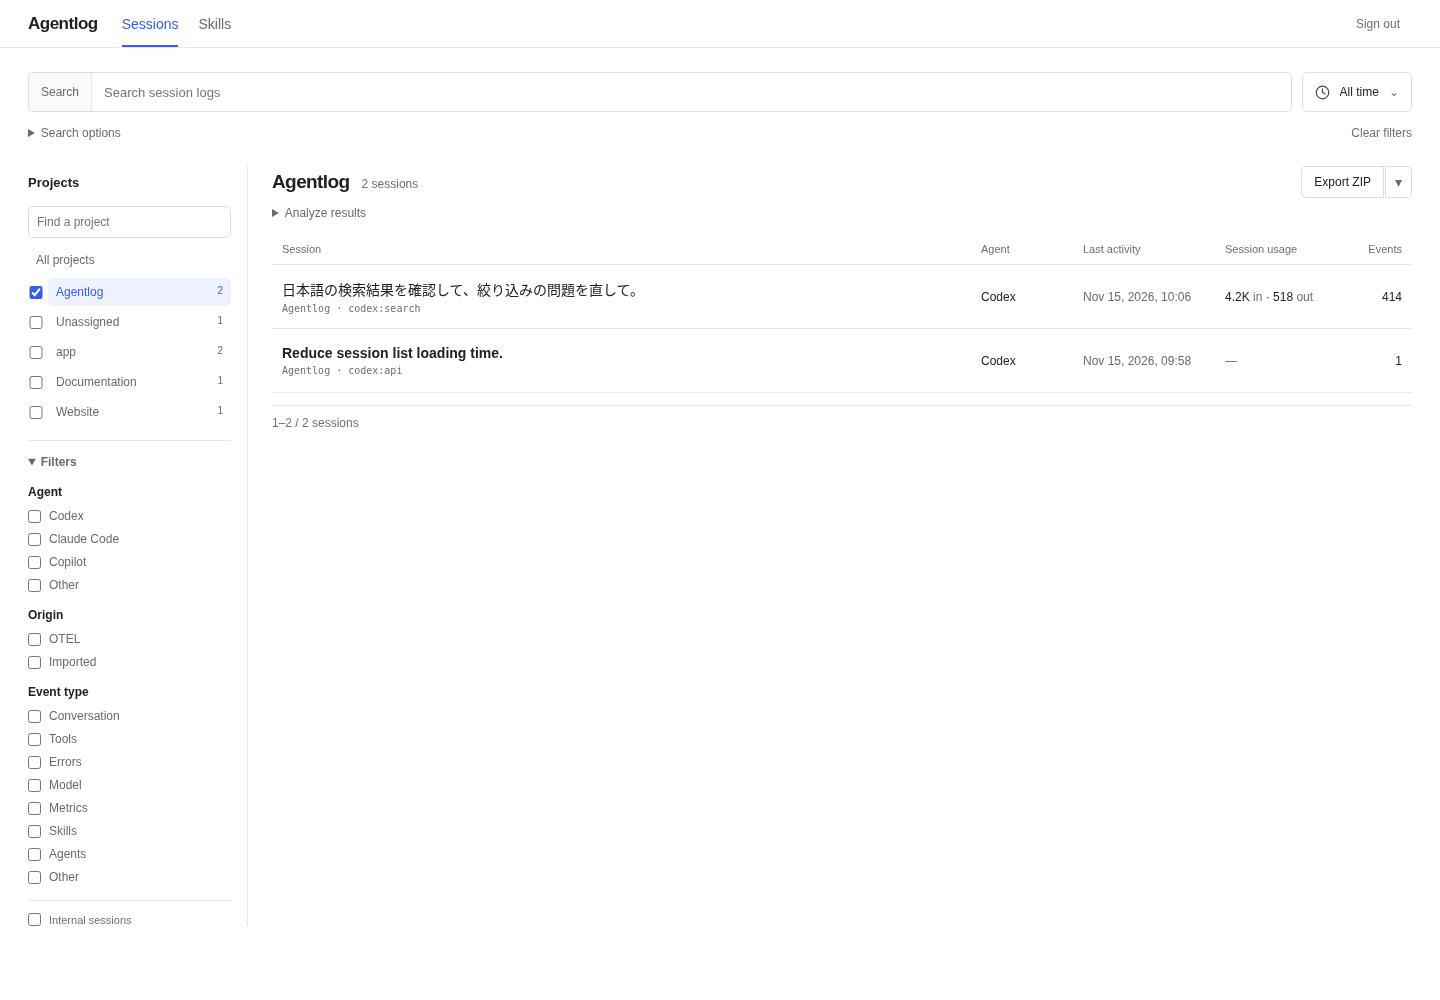
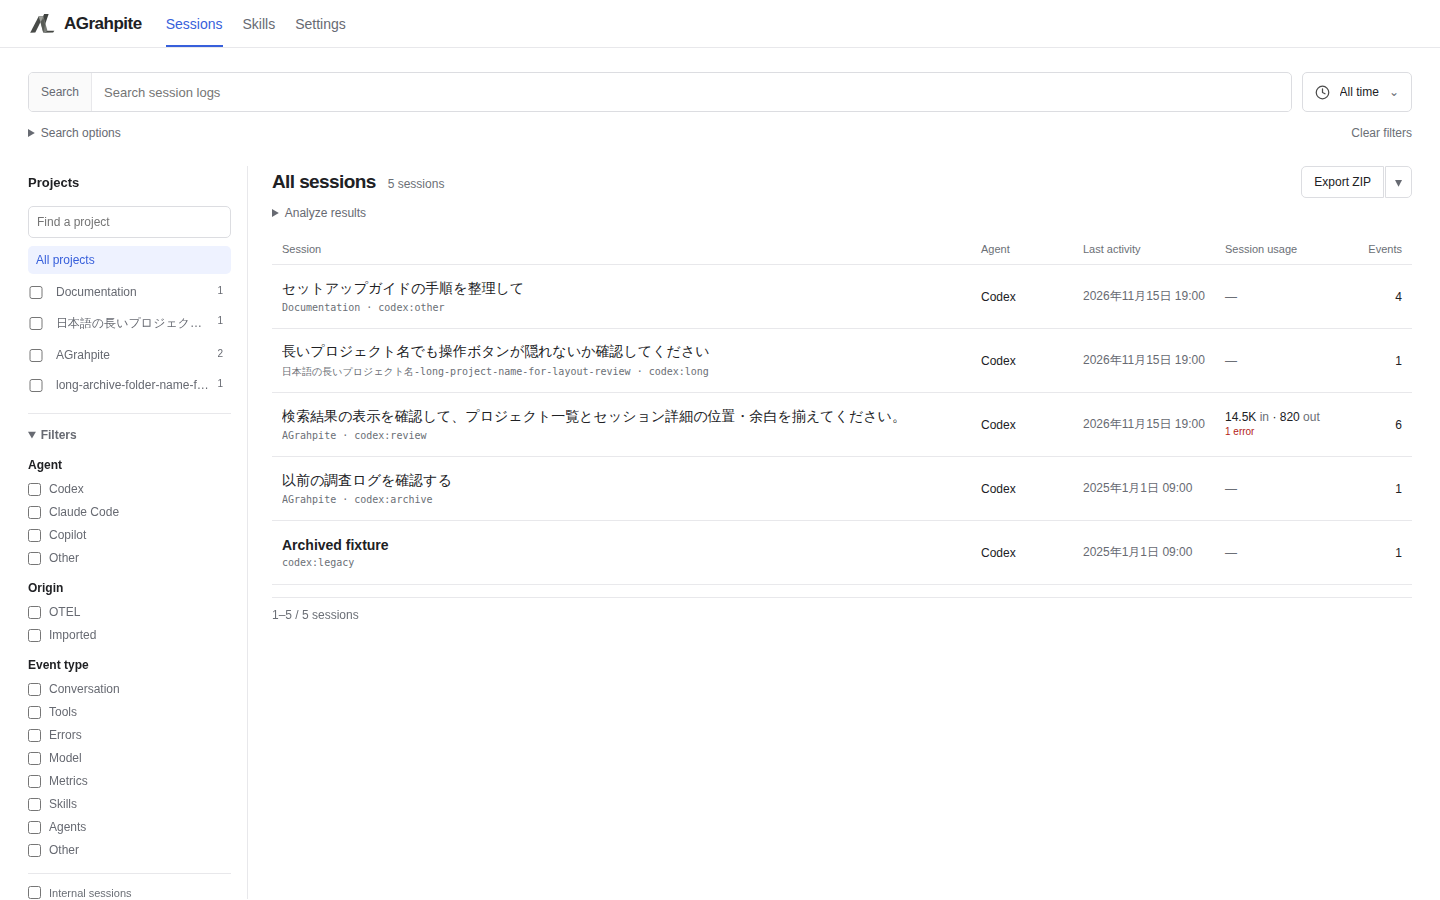
製品名を AGrahpite に変更し、黒鉛をモチーフにしたロゴを採用 (#54)
画面・ファビコン・文書・起動ログと今後のリリース表示にブランドを反映する。狭い画面ではヘッダーを二段にする。

既存コマンド、環境変数、保存先、認証とデータ形式の識別子は維持する。全 Go テスト、静的検証、6幅の画面確認、ログイン・設定・API 操作を検証済み。

diff --git a/internal/app/static/index.html b/internal/app/static/index.html
@@ -1,6 +1,6 @@
-<!doctype html><html lang="en"><head><meta charset="utf-8"><meta name="viewport" content="width=device-width,initial-scale=1"><title>Sessions · Agentlog</title><link rel="stylesheet" href="/palette.css"><link rel="stylesheet" href="/style.css"><script src="/pagination.js" defer></script><script src="/usage.js" defer></script><script src="/subagents.js" defer></script><script src="/children.js" defer></script><script src="/tool_pairs.js" defer></script><script src="/skills.js" defer></script><script src="/projects.js" defer></script><script src="/model_calls.js" defer></script><script src="/archive.js" defer></script><script src="/search_controls.js" defer></script><script src="/conversation.js" defer></script><script src="/settings.js" defer></script><script src="/app.js" defer></script></head><body>
-<section id="login" hidden><form id="loginform"><h1>Agentlog</h1><label>Access token<input id="token" type="password" required autocomplete="current-password"></label><button class="primary">Sign in</button><p id="loginerror" role="alert"></p></form></section>
-<div id="workspace" hidden><header class="topbar"><a href="/" class="brand">Agentlog</a><nav aria-label="Main"><a id="sessionsnav" href="/">Sessions</a><a id="skillsnav" href="/skills">Skills</a><a id="settingsnav" href="/settings">Settings</a></nav><button id="logout" hidden>Sign out</button></header><div id="error" role="alert"></div>
+<!doctype html><html lang="en"><head><meta charset="utf-8"><meta name="viewport" content="width=device-width,initial-scale=1"><title>Sessions · AGrahpite</title><link rel="icon" type="image/svg+xml" href="/favicon.svg"><link rel="stylesheet" href="/palette.css"><link rel="stylesheet" href="/style.css"><script src="/pagination.js" defer></script><script src="/usage.js" defer></script><script src="/subagents.js" defer></script><script src="/children.js" defer></script><script src="/tool_pairs.js" defer></script><script src="/skills.js" defer></script><script src="/projects.js" defer></script><script src="/model_calls.js" defer></script><script src="/archive.js" defer></script><script src="/search_controls.js" defer></script><script src="/conversation.js" defer></script><script src="/settings.js" defer></script><script src="/app.js" defer></script></head><body>
+<section id="login" hidden><form id="loginform"><h1 class="login-brand"><img class="brand-mark" src="/logo.svg" alt="" width="36" height="30">AGrahpite</h1><label>Access token<input id="token" type="password" required autocomplete="current-password"></label><button class="primary">Sign in</button><p id="loginerror" role="alert"></p></form></section>
+<div id="workspace" hidden><header class="topbar"><a href="/" class="brand"><img class="brand-mark" src="/logo.svg" alt="" width="29" height="24">AGrahpite</a><nav aria-label="Main"><a id="sessionsnav" href="/">Sessions</a><a id="skillsnav" href="/skills">Skills</a><a id="settingsnav" href="/settings">Settings</a></nav><button id="logout" hidden>Sign out</button></header><div id="error" role="alert"></div>
 <main id="listpage"><section id="searchcontrols" class="search-workbench" aria-label="Search filters">
 <div class="search-querybar"><div id="queryhost" class="search-query"><span class="search-query-label">Search</span></div>
 <details id="searchtime" class="search-time"><summary aria-label="Event time range"><span id="searchtimelabel">All time</span></summary><div class="time-picker"><label class="range-control">Event time<select id="searchrange"><option value="all">All time</option><option value="900">Last 15 minutes</option><option value="3600">Last hour</option><option value="86400">Last 24 hours</option><option value="604800">Last 7 days</option><option value="2592000">Last 30 days</option><option value="custom">Custom range</option></select></label><div id="searchdates" hidden><label title="Inclusive start">From<input id="searchfrom" type="datetime-local" step="1" aria-describedby="searchfiltererror"></label><label title="Exclusive end">To<input id="searchto" type="datetime-local" step="1" aria-describedby="searchfiltererror"></label></div><p id="searchfiltererror" role="alert"></p><div class="time-picker-footer"><small id="searchtimezone" class="muted"></small><button id="applysearchfilters" class="primary">Apply time range</button></div></div></details></div>

diff --git a/internal/app/static/style.css b/internal/app/static/style.css
@@ -63,11 +63,21 @@ h1 {
   padding:0 var(--shell-inset);
   gap:24px;
 }
+.brand,.login-brand {
+  display:inline-flex;
+  align-items:center;
+  gap:7px;
+  flex-shrink:0;
+}
 .brand {
   color:var(--text);
   font-weight:650;
   font-size:17px;
   letter-spacing:-.5px;
+}
+.brand-mark {
+  display:block;
+  flex-shrink:0;
 }
 .topbar button {
   border:0;
@@ -1646,6 +1656,13 @@ html {
 .topbar > nav { gap: 20px; height: 100%; align-items: stretch; }
 .topbar > nav a { display: flex; align-items: center; color: var(--text-secondary); border-bottom: 2px solid transparent; padding-top: 2px; }
 .topbar > nav a[aria-current=page] { color: var(--accent); border-bottom-color: var(--accent); }
+@media(max-width:600px) {
+ :root { --appbar-height:82px; }
+ .topbar { display:grid; grid-template-columns:minmax(0,1fr) auto; grid-template-rows:36px 34px; gap:0 12px; height:var(--appbar-height); padding-block:6px; }
+ .topbar > .brand { grid-column:1; grid-row:1; justify-self:start; }
+ .topbar > nav { grid-column:1 / -1; grid-row:2; flex-wrap:nowrap; }
+ #logout { grid-column:2; grid-row:1; white-space:nowrap; }
+}
 .data-actions { display: flex; flex-shrink: 0; align-items: stretch; gap: 1px; }
 #downloadexport { border-radius: 5px 0 0 5px; }
 #dataoptions { position: relative; }

diff --git a/internal/app/static/app.js b/internal/app/static/app.js
@@ -190,7 +190,7 @@ function updateDocumentTitle() {
     const scope = projectScopeName() || (folder !== null ? folderName(folder) : "");
     parts = [scope, skillsMode ? "Skills" : "Sessions"];
   }
-  document.title = [...parts, "Agentlog"]
+  document.title = [...parts, "AGrahpite"]
     .map((part) => String(part || "").replace(/\s+/g, " ").trim())
     .filter(Boolean).join(" · ");
 }

diff --git a/scripts/layout_browser_test.py b/scripts/layout_browser_test.py
@@ -22,13 +22,13 @@ with tempfile.TemporaryDirectory() as folder:
             return [{'key':k,'value':{'boolValue':v} if isinstance(v,bool) else {'stringValue':str(v)}} for k,v in values.items()]
         def record(session, index, name, values, old=False):
             return {'eventName':name,'timeUnixNano':str((1735689600000000000 if old else 1794736800000000000)+index*1000000000),'attributes':attrs({'session.id':session,**values})}
-        rows = [record('review',0,'codex.user_prompt',{'service.namespace':'Agentlog','cwd':'/work/agentlog','prompt':'検索結果の表示を確認して、プロジェクト一覧とセッション詳細の位置・余白を揃えてください。','turn.id':'turn-one'})]
+        rows = [record('review',0,'codex.user_prompt',{'service.namespace':'AGrahpite','cwd':'/work/agentlog','prompt':'検索結果の表示を確認して、プロジェクト一覧とセッション詳細の位置・余白を揃えてください。','turn.id':'turn-one'})]
         rows += [record('review',1,'codex.skill_invocation',{'skill.name':'review-layout-and-accessibility','skill.plugin_id':'workspace-tools','turn.id':'turn-one'}),
             record('review',2,'gen_ai.tool.start',{'tool_name':'exec_command','call_id':'layout-test','arguments':json.dumps({'cmd':'go test ./internal/app -run TestSessionLayout -count=1'})}),
             record('review',3,'gen_ai.tool.result',{'tool_name':'exec_command','call_id':'layout-test','output':'FAIL: expected aligned column headers\n'+('/work/a-long-directory-name/'*5)+'layout_test.go:42','success':False,'error':'Exit code 1'}),
             record('review',4,'codex.agent_response',{'response':'検索欄、一覧の列、詳細パネルの見出しを確認しました。長いプロジェクト名や日本語の説明も確認します。','turn.id':'turn-one','model':'gpt-6.1-sol'}),
             record('review',5,'gen_ai.client.operation',{'gen_ai.request.model':'gpt-6.1-sol','gen_ai.usage.input_tokens':14522,'gen_ai.usage.output_tokens':820,'gen_ai.usage.cache_read.input_tokens':4096})]
-        for i,(session,project,prompt) in enumerate([('other','Documentation','セットアップガイドの手順を整理して'),('long','日本語の長いプロジェクト名-long-project-name-for-layout-review','長いプロジェクト名でも操作ボタンが隠れないか確認してください'),('archive','Agentlog','以前の調査ログを確認する')]):
+        for i,(session,project,prompt) in enumerate([('other','Documentation','セットアップガイドの手順を整理して'),('long','日本語の長いプロジェクト名-long-project-name-for-layout-review','長いプロジェクト名でも操作ボタンが隠れないか確認してください'),('archive','AGrahpite','以前の調査ログを確認する')]):
             rows += [record(session,10+i,'codex.user_prompt',{'service.namespace':project,'cwd':'/work/'+session,'prompt':prompt},old=session=='archive')]
         for i,name in enumerate(['日本語ドキュメントのレビュー','a-very-long-skill-name-without-spaces-to-check-narrow-columns','review-core']):
             rows += [record('other',20+i,'codex.skill_invocation',{'skill.name':name,'skill.plugin_id':'long-plugin-name-for-layout-verification','turn.id':str(i),'skill.scope':'project'})]

diff --git a/scripts/api_keys_browser_test.py b/scripts/api_keys_browser_test.py
@@ -27,7 +27,7 @@ with tempfile.TemporaryDirectory(prefix='agentlog-api-keys-') as directory:
             except OSError:
                 time.sleep(.05)
         with sync_playwright() as pw:
-            browser = pw.chromium.launch(executable_path='/usr/bin/chromium',headless=True,args=['--no-sandbox'])
+            browser = pw.chromium.launch(executable_path=os.getenv('AGENTLOG_CHROMIUM', '/usr/bin/chromium'),headless=True,args=['--no-sandbox'])
             context = browser.new_context(viewport={'width':1440,'height':1000},locale='ja-JP',permissions=['clipboard-read','clipboard-write'])
             page = context.new_page()
             errors, requests = [], []
@@ -38,7 +38,7 @@ with tempfile.TemporaryDirectory(prefix='agentlog-api-keys-') as directory:
             page.locator('#token').fill(token)
             page.locator('#loginform button').click()
             expect(page.locator('#settingspage')).to_be_visible()
-            expect(page).to_have_title('Settings · Agentlog')
+            expect(page).to_have_title('Settings · AGrahpite')
             expect(page.locator('#settingsnav')).to_have_attribute('aria-current','page')
             expect(page.locator('#apikeycount')).to_have_text('0 keys')
             expect(page.locator('#serverversion')).to_contain_text('Version ')
@@ -63,7 +63,7 @@ with tempfile.TemporaryDirectory(prefix='agentlog-api-keys-') as directory:
             command = page.evaluate('navigator.clipboard.readText()')
             assert '<API_KEY>' in command and base+'/api/readme' in command and key not in command
             result = subprocess.run(['curl','-fsS','-H','Authorization: Bearer '+key,base+'/api/readme'],capture_output=True,text=True,check=True)
-            assert '# Agentlog API' in result.stdout and '/api/metrics' in result.stdout
+            assert '# AGrahpite API' in result.stdout and '/api/metrics' in result.stdout
             metrics = page.request.get(base+'/api/metrics',headers={'Authorization':'Bearer '+key})
             assert metrics.status==200 and metrics.json()['events']==0
             assert page.request.get(base+'/api/settings/api-keys',headers={'Authorization':'Bearer '+key}).status==403

diff --git a/cmd/agentlog/main.go b/cmd/agentlog/main.go
@@ -45,7 +45,7 @@ func serverMain() error {
 	}
 	ctx, stop := signal.NotifyContext(context.Background(), os.Interrupt, syscall.SIGTERM)
 	defer stop()
-	log.Printf("agentlog %s starting; preparing database %s", version, *db)
+	log.Printf("AGrahpite %s starting; preparing database %s", version, *db)
 	a, e := app.Start(ctx, *db, os.Getenv("AGENTLOG_TOKEN"))
 	if e != nil {
 		if ctx.Err() != nil {
@@ -82,7 +82,7 @@ func serverMain() error {
 			srv.Close()
 		}
 	}()
-	log.Printf("agentlog %s listening on %s", version, *addr)
+	log.Printf("AGrahpite %s listening on %s", version, *addr)
 	e = srv.ListenAndServe()
 	stop()
 	workers.Wait()

diff --git a/internal/app/app.go b/internal/app/app.go
@@ -162,7 +162,7 @@ func serveShell(w http.ResponseWriter, r *http.Request) {
 		title = "Settings"
 	}
 	w.Header().Set("Content-Type", "text/html; charset=utf-8")
-	w.Write([]byte(strings.Replace(string(b), "<title>Sessions · Agentlog</title>", "<title>"+title+" · Agentlog</title>", 1)))
+	w.Write([]byte(strings.Replace(string(b), "<title>Sessions · AGrahpite</title>", "<title>"+title+" · AGrahpite</title>", 1)))
 }
 
 // Retired standalone actions return to the shared session list. Preserve saved

diff --git a/scripts/migrate_db.py b/scripts/migrate_db.py
@@ -6,7 +6,7 @@
 """Offline, Python-only conversion of a prepared v0.23 database to storage v2.
 
 The complete data directory is published only after byte-level table validation.
-No Agentlog binary, source transcript files, or network connection is needed.
+No AGrahpite binary, source transcript files, or network connection is needed.
 """
 from __future__ import annotations
 

diff --git a/internal/app/app_test.go b/internal/app/app_test.go
@@ -149,7 +149,7 @@ func TestLogsAndAuth(t *testing.T) {
 	r = httptest.NewRequest("GET", "/", nil)
 	w = httptest.NewRecorder()
 	a.Handler().ServeHTTP(w, r)
-	if w.Code != 200 || !strings.Contains(w.Body.String(), "Agentlog") {
+	if w.Code != 200 || !strings.Contains(w.Body.String(), "AGrahpite") {
 		t.Fatal(w.Code)
 	}
 }

diff --git a/docs/projects.md b/docs/projects.md
@@ -2,7 +2,7 @@
 
 | Attribute | Meaning |
 | --- | --- |
-| `service.namespace` | Standard OTEL resource attribute; Agentlog uses it as the project name |
+| `service.namespace` | Standard OTEL resource attribute; AGrahpite uses it as the project name |
 | `project.tags` | Custom resource attribute; string or string array |
 
 The session search page keeps projects in a persistent sidebar, ordered by their most recent session activity. Click a project to filter sessions, or combine several with their checkboxes; text search and [time/agent/origin filters](search-filters.md) apply within that selection. Projects have their own search. Selection is saved in the URL and restored when returning from a session.
@@ -13,7 +13,7 @@ sessions** is enabled. Projects containing only hidden sessions are omitted.
 **Export entire project** in the list’s Export menu uses an inclusive scope, so complete project exports still include
 all children and internal sessions of the selected projects.
 
-Projects are grouped by name. Agentlog uses an explicit `service.namespace` / `project.name` label when present; otherwise it uses the final directory name from the exported working directory. For example, the label `shop`, `/workspaces/shop` and `/home/user/shop` all belong to the same project. Windows and POSIX directory separators are supported. Names match exactly, including case. Sessions with neither a label nor a working directory appear under **Unassigned**. Paths mentioned in prompts or tool arguments are never used to guess a project.
+Projects are grouped by name. AGrahpite uses an explicit `service.namespace` / `project.name` label when present; otherwise it uses the final directory name from the exported working directory. For example, the label `shop`, `/workspaces/shop` and `/home/user/shop` all belong to the same project. Windows and POSIX directory separators are supported. Names match exactly, including case. Sessions with neither a label nor a working directory appear under **Unassigned**. Paths mentioned in prompts or tool arguments are never used to guess a project.
 
 The same name groups session search, project counts, skills and exports. The original working directory remains available in session details and folder-based archives. The offline migration preserves prepared project groups without re-reading raw event histories. Older `project=path:…` selections resolve to the new name group, so open pages and saved links do not recreate duplicate entries.
 
@@ -52,7 +52,7 @@ Current Codex uses these Resource attributes for logs and traces. `config.toml` 
 
 ## Endpoint query
 
-Agentlog also accepts `project` and repeated `tag` parameters on each full signal endpoint:
+AGrahpite also accepts `project` and repeated `tag` parameters on each full signal endpoint:
 
 ```text
 https://agents.example.com/v1/logs?project=shop&tag=backend&tag=go
@@ -62,7 +62,7 @@ https://agents.example.com/v1/metrics?project=shop&tag=backend&tag=go
 
 For Codex, set the first two URLs in the `exporter` and `trace_exporter` endpoint values in `~/.codex/config.toml`. For Claude Code, use `OTEL_EXPORTER_OTLP_LOGS_ENDPOINT`, `OTEL_EXPORTER_OTLP_TRACES_ENDPOINT` and `OTEL_EXPORTER_OTLP_METRICS_ENDPOINT` in `env`. [Complete CLI settings and project URL examples](senders.md). Copilot uses `telemetry.resourceAttributes` as shown above; keep its `telemetry.endpoint` as the base URL.
 
-Explicit `service.namespace` or `project.name` resource attributes take precedence over query defaults. These parameters are an Agentlog extension, not an OTLP standard. Use full per-signal URLs; generic base-endpoint query handling varies by CLI.
+Explicit `service.namespace` or `project.name` resource attributes take precedence over query defaults. These parameters are an AGrahpite extension, not an OTLP standard. Use full per-signal URLs; generic base-endpoint query handling varies by CLI.
 
 OTEL resource attributes apply to the process/resource, not automatically to a repository. Fixed labels in global or machine-wide settings apply to all sessions using them. For live per-project labels, use the CLI's supported launch environment or separate configurations; managed policy may override local values. For historical imports, use `--cwd`, `--project` and `--tag` as described in [Import](import.md).
 

diff --git a/docs/provider-display.md b/docs/provider-display.md
@@ -1,6 +1,6 @@
 # Claude Code and Copilot display
 
-Agentlog decodes provider-specific conversation, tool and skill fields before rendering cards. Activity shows useful conversation/tool records; Diagnostics retains model calls, permission/audit records, metrics and other internal telemetry. Errors remain visible in Activity.
+AGrahpite decodes provider-specific conversation, tool and skill fields before rendering cards. Activity shows useful conversation/tool records; Diagnostics retains model calls, permission/audit records, metrics and other internal telemetry. Errors remain visible in Activity.
 
 ## Claude Code
 
@@ -53,4 +53,4 @@ To recapture telemetry with an installed Copilot CLI:
 COPILOT_BIN=/path/to/copilot python3 scripts/copilot_capture_probe.py --output /tmp/copilot-capture
 ```
 
-The optional probe writes only its synthetic test files/configuration, uses a loopback mock provider and exits within 45 seconds. It emits the original CLI file-exporter format; that diagnostic format is distinct from OTLP HTTP and the CLI's saved session JSONL. No Copilot executable or new runtime dependency is bundled with Agentlog.
+The optional probe writes only its synthetic test files/configuration, uses a loopback mock provider and exits within 45 seconds. It emits the original CLI file-exporter format; that diagnostic format is distinct from OTLP HTTP and the CLI's saved session JSONL. No Copilot executable or new runtime dependency is bundled with AGrahpite.
